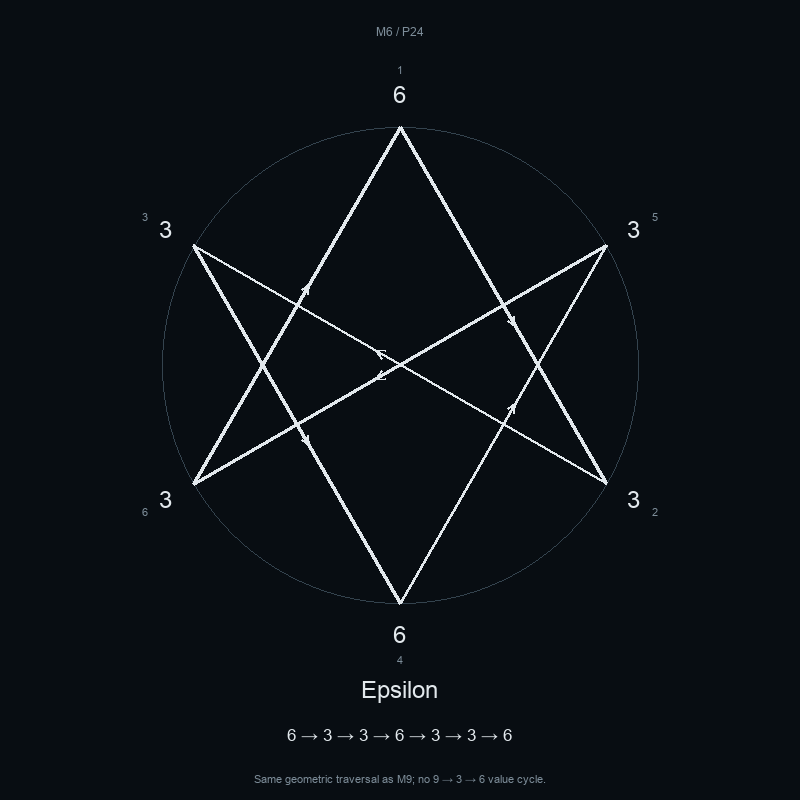
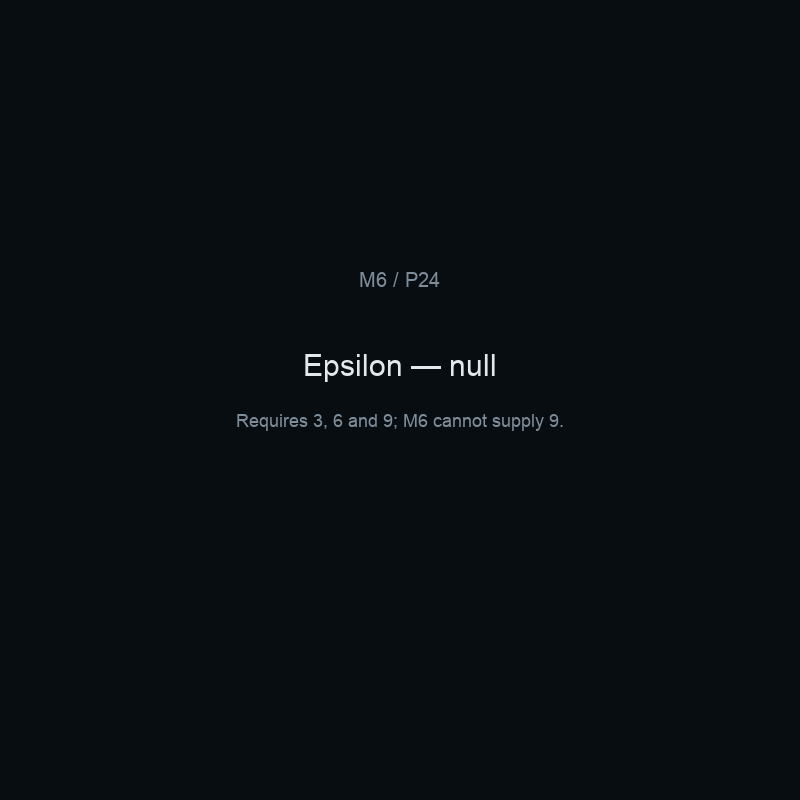
Mark M6 Epsilon null and remove its traversal from diagrams

diff --git a/Informatics/research.js b/Informatics/research.js
@@ -1,18 +1,17 @@
 'use strict';
-(()=>{const $=s=>document.querySelector(s);let request=0;async function load(){const token=++request;try{const isM6=$('#research-record').value==='fibonacci-m6-p24';const file=isM6?'m6p24.json?v=1':'m9p24.json?v=3';const response=await fetch(file);if(!response.ok)throw Error('Research record unavailable');const d=await response.json();if(token!==request)return;document.querySelector('nav').replaceChildren();document.querySelector('h1').textContent='M'+d.modulus+' / P'+d.pisano_period;document.querySelector('footer span').textContent='Symbolic geometry · M'+d.modulus+' / P'+d.pisano_period;$('#json-download').href=file;
+(()=>{const $=s=>document.querySelector(s);let request=0;async function load(){const token=++request;try{const isM6=$('#research-record').value==='fibonacci-m6-p24';const file=isM6?'m6p24.json?v=2':'m9p24.json?v=3';const response=await fetch(file);if(!response.ok)throw Error('Research record unavailable');const d=await response.json();if(token!==request)return;document.querySelector('nav').replaceChildren();document.querySelector('h1').textContent='M'+d.modulus+' / P'+d.pisano_period;document.querySelector('footer span').textContent='Symbolic geometry · M'+d.modulus+' / P'+d.pisano_period;$('#json-download').href=file;
 const descriptions=[
  ['All 24 Fibonacci residues, placed clockwise around a circle.',d.alpha.display_values.join(' · '),'Clock position 24 starts at north, followed clockwise by 1–23. Zero is displayed as 9.','F(n+2) = F(n+1) + F(n), reduced modulo 9. The state (0, 1) first returns after 24 steps.'],
  ['The embedded doubling cycle, drawn on its own nine-position circle.',d.beta.display_cycle.concat(d.beta.display_cycle[0]).join(' → '),'Starts at 4. Recognised cyclic pattern: 1 → 2 → 4 → 8 → 7 → 5.','Sums between Gamma nodes: '+d.beta.interval_sums.join(', ')+'. Reduced modulo 9: '+d.beta.interval_residues.join(', ')+'. The first interval runs from clock position 24 to 4: 1 + 1 + 2 = 4. The original start is preserved; rotation is recorded separately.'],
  ['Six nodal positions form two intersecting equilateral triangles.',d.gamma.clockwise_values.join(' · '),'These values are in clockwise order, starting at north.','Clock positions: '+d.gamma.clock_positions.join(', ')+'. Each triangle advances eight positions, or 120°, between vertices.'],
- ['A continuous unicursal hexagram through the six Gamma nodes.',d.epsilon.traversal_values.join(' → '),'Arrows indicate direction; small numbers indicate visit order.','Clock position route: '+d.epsilon.clock_positions.join(' → ')+'. This is a proposed geometric path. Quantum annealing and physical interpretation have not yet been assessed.'],
+ ['A continuous unicursal hexagram through the six Gamma nodes.',d.epsilon?.traversal_values.join(' → ') || 'Null','Arrows indicate direction; small numbers indicate visit order.','Clock position route: '+d.epsilon?.clock_positions.join(' → ') || ''+'. This is a proposed geometric path. Quantum annealing and physical interpretation have not yet been assessed.'],
  ['All five geometric layers share one frame.','Alpha · Beta · Gamma · Epsilon','Alpha uses 24 positions; Beta uses nine. The green hexagon touches the circle.','The overlay combines the circle, triangles, unicursal route, outer hexagon and doubling chevron. Shared placement is a drawing convention; it does not establish biological significance.']];
 if(isM6){
 descriptions[0]=['24 native Fibonacci residues on the period circle.',d.alpha.display_values.join(' · '),'Clock position 24 is north. Zero is displayed as 6.','Fibonacci recurrence modulo 6; the state (0, 1) first returns after 24 steps.'];
 descriptions[1]=['A two-step doubling cycle on a six-position circle.',d.beta.display_cycle.join(' → '),'Original start: 4. Minimal cycle: 4 → 2. Repeated edges overlap.','Interior sums: '+d.beta.interval_sums.join(', ')+'. Modulo 6: 4, 2, 4, 2, 4, 2. Each next value doubles modulo 6. The six-value M9 cycle 1, 2, 4, 8, 7, 5 is absent.'];
 descriptions[2]=['The same six nodal positions as M9 form two equilateral triangles.',d.gamma.clockwise_values.join(' · '),'Native residues are 0 and 3; zero is displayed as 6.','Clock positions: 24, 4, 8, 12, 16, 20. Triangles advance eight positions (120°).'];
-descriptions[3]=['The same unicursal geometry as M9, with different values.',d.epsilon.traversal_values.join(' → '),'The geometric path exists; the 9 → 3 → 6 value cycle does not.','Clock route: '+d.epsilon.clock_positions.join(' → ')+'. Physical motion and annealing remain unassessed.'];
-descriptions[4]=['M6 sequences and nodal geometry in one frame.','Alpha · Beta · Gamma · Epsilon','Alpha uses 24 positions; Beta uses six.','The native Beta cycle forms one repeatedly traversed chord, not the M9 chevron. Geometry alone does not establish biological significance.'];}
-const colors=['#5ca8ff','#ffea42','#ff84c5','#fff','#62d998'];
+descriptions[4]=['M6 sequences and nodal geometry in one frame.','Alpha · Beta · Gamma','Alpha uses 24 positions; Beta uses six. Epsilon is null: M6 cannot supply 9.','The native Beta cycle forms one repeatedly traversed chord, not the M9 chevron. Geometry alone does not establish biological significance.'];descriptions.splice(3,1);}
+const colors=isM6?['#5ca8ff','#ffea42','#ff84c5','#62d998']:['#5ca8ff','#ffea42','#ff84c5','#fff','#62d998'];document.querySelector('.intro > p').textContent=isM6?'One structure. Four perspectives.':'One structure. Five perspectives.';
 function select(i){const v=d.views[i],x=descriptions[i];history.replaceState(null,'','#'+v.id);document.querySelectorAll('[role=tab]').forEach((b,j)=>{b.setAttribute('aria-selected',String(i===j));b.tabIndex=i===j?0:-1});$('#geometry-panel').setAttribute('aria-labelledby','view-'+i);$('#diagram').src=v.svg;$('#diagram').alt=v.name+': '+x[0];$('#view-name').textContent=v.name;$('#description').textContent=x[0];$('#sequence').textContent=x[1];$('#convention').textContent=x[2];$('#calculation').textContent=x[3];$('#svg-download').href=v.svg;$('#png-download').href=v.png;document.querySelector('details').open=false;}
-d.views.forEach((v,i)=>{const b=document.createElement('button');b.id='view-'+i;b.role='tab';b.setAttribute('aria-controls','geometry-panel');b.style.setProperty('--color',colors[i]);b.textContent=v.name;b.onclick=()=>select(i);b.onkeydown=e=>{if(['ArrowLeft','ArrowRight','Home','End'].includes(e.key)){e.preventDefault();const j=e.key==='Home'?0:e.key==='End'?4:(i+(e.key==='ArrowRight'?1:4))%5;select(j);document.querySelector('#view-'+j).focus()}};document.querySelector('nav').append(b)});const fromHash=()=>{const i=d.views.findIndex(v=>v.id===location.hash.slice(1));select(i<0?0:i)};fromHash();window.onhashchange=fromHash;
+d.views.forEach((v,i)=>{const b=document.createElement('button');b.id='view-'+i;b.role='tab';b.setAttribute('aria-controls','geometry-panel');b.style.setProperty('--color',colors[i]);b.textContent=v.name;b.onclick=()=>select(i);b.onkeydown=e=>{if(['ArrowLeft','ArrowRight','Home','End'].includes(e.key)){e.preventDefault();const j=e.key==='Home'?0:e.key==='End'?d.views.length-1:(i+(e.key==='ArrowRight'?1:d.views.length-1))%d.views.length;select(j);document.querySelector('#view-'+j).focus()}};document.querySelector('nav').append(b)});const fromHash=()=>{const i=d.views.findIndex(v=>v.id===location.hash.slice(1));select(i<0?0:i)};fromHash();window.onhashchange=fromHash;
 }catch(e){$('#description').textContent='The research record could not be loaded. Please reload the page.';console.error(e)}}$('#research-record').onchange=load;load();})();

diff --git a/Informatics/research.html b/Informatics/research.html
@@ -1,1 +1,1 @@
-<!doctype html><html lang="en"><head><meta charset="utf-8"><meta name="viewport" content="width=device-width,initial-scale=1"><meta name="robots" content="noindex,nofollow"><script>if(window.top===window.self){location.replace("./?atlas=1"+location.hash)}else{document.documentElement.classList.add("embedded")}</script><title>Fibonacci M9P24 — Universal Informatics</title><link rel="icon" href="/vogue/iam/favicon.png"><link rel="stylesheet" href="research.css?v=3"></head><body><header><a class="brand" href="./">UNIVERSAL <img src="/vogue/iam/favicon.png" alt="" width="22" height="22"> INFORMATICS</a><a class="home-link" href="./">← Informatics home</a></header><main><div class="record-picker"><label for="research-record">Research record</label><select id="research-record" aria-label="Modulus and Pisano period"><option value="fibonacci-m9-p24">Fibonacci · M9 / P24</option><option value="fibonacci-m6-p24">Fibonacci · M6 / P24</option></select></div><div class="intro"><div><p class="eyebrow">FIBONACCI SEQUENCE</p><h1>M9 <span>/</span> P24</h1></div><p>One structure. Five perspectives.</p></div><nav aria-label="Geometry views" role="tablist"></nav><div class="workspace"><section class="figure" role="tabpanel" id="geometry-panel" tabindex="0"><img id="diagram" alt=""></section><aside><p class="eyebrow">SELECTED VIEW</p><h2 id="view-name"></h2><p id="description"></p><p class="eyebrow detail-label">SEQUENCE</p><p id="sequence" class="sequence"></p><p id="convention"></p><details><summary>Inspect the calculation</summary><p id="calculation"></p></details><div class="downloads"><a id="svg-download" download>SVG ↗</a><a id="png-download" download>PNG ↗</a><a id="json-download" href="m9p24.json?v=3" download>JSON ↗</a></div><div class="research-status"><p class="eyebrow">OXTR RESEARCH</p><p>Biological significance<br><span>Not yet assessed</span></p></div></aside></div></main><footer><span>Symbolic geometry · M9 / P24</span><a href="./">← Informatics home</a></footer><script src="research.js?v=7"></script></body></html>
+<!doctype html><html lang="en"><head><meta charset="utf-8"><meta name="viewport" content="width=device-width,initial-scale=1"><meta name="robots" content="noindex,nofollow"><script>if(window.top===window.self){location.replace("./?atlas=1"+location.hash)}else{document.documentElement.classList.add("embedded")}</script><title>Fibonacci M9P24 — Universal Informatics</title><link rel="icon" href="/vogue/iam/favicon.png"><link rel="stylesheet" href="research.css?v=3"></head><body><header><a class="brand" href="./">UNIVERSAL <img src="/vogue/iam/favicon.png" alt="" width="22" height="22"> INFORMATICS</a><a class="home-link" href="./">← Informatics home</a></header><main><div class="record-picker"><label for="research-record">Research record</label><select id="research-record" aria-label="Modulus and Pisano period"><option value="fibonacci-m9-p24">Fibonacci · M9 / P24</option><option value="fibonacci-m6-p24">Fibonacci · M6 / P24</option></select></div><div class="intro"><div><p class="eyebrow">FIBONACCI SEQUENCE</p><h1>M9 <span>/</span> P24</h1></div><p>One structure. Five perspectives.</p></div><nav aria-label="Geometry views" role="tablist"></nav><div class="workspace"><section class="figure" role="tabpanel" id="geometry-panel" tabindex="0"><img id="diagram" alt=""></section><aside><p class="eyebrow">SELECTED VIEW</p><h2 id="view-name"></h2><p id="description"></p><p class="eyebrow detail-label">SEQUENCE</p><p id="sequence" class="sequence"></p><p id="convention"></p><details><summary>Inspect the calculation</summary><p id="calculation"></p></details><div class="downloads"><a id="svg-download" download>SVG ↗</a><a id="png-download" download>PNG ↗</a><a id="json-download" href="m9p24.json?v=3" download>JSON ↗</a></div><div class="research-status"><p class="eyebrow">OXTR RESEARCH</p><p>Biological significance<br><span>Not yet assessed</span></p></div></aside></div></main><footer><span>Symbolic geometry · M9 / P24</span><a href="./">← Informatics home</a></footer><script src="research.js?v=8"></script></body></html>

diff --git a/research/informatics/build_m6.py b/research/informatics/build_m6.py
@@ -45,7 +45,7 @@ nodes=[i for i,v in enumerate(values) if v%3==0]
 sums=[sum(values[j%n] for j in range(lo+1,hi)) for lo,hi in zip(nodes,nodes[1:]+[n])]
 beta=[v%6 for v in sums]
 triangles=[[0,8,16,0],[4,12,20,4]]
-path=[0,8,20,12,4,16,0]
+assert not {3,6,9}.issubset(display) # Epsilon requires all three values; M1–M8 are ineligible.
 assert n==24 and nodes==[0,4,8,12,16,20]
 assert sums==[4,8,10,14,10,8] and beta==[4,2,4,2,4,2]
 assert all((2*beta[i])%6==beta[(i+1)%6] for i in range(6))
@@ -60,26 +60,20 @@ def draw_gamma(g,labels=True):
  for t in triangles:g.line([pt(i,n) for i in t],PINK,2)
  if labels:
   for i in nodes:g.circle(pt(i,n),5,PINK,fill=PINK);g.text(display[i],pt(i,n,270),24)
-def draw_epsilon(g,labels=True):
- points=[pt(i,n) for i in path];g.line(points,FG,3)
- for a,b in zip(points,points[1:]):g.arrow(a,b,FG)
- if labels:
-  for step,i in enumerate(path[:-1],1):g.text(display[i],pt(i,n,270),24);g.text(step,pt(i,n,295),11,MUTED)
 def draw_beta(g,labels=True):
  points=[pt(v,6) for v in beta+[beta[0]]];g.line(points,YELLOW,3)
  if labels:
   for i in range(6):g.text(i or 6,pt(i,6,270),24,YELLOW if i in beta else MUTED)
   g.text('start 4',pt(4,6,310),12,YELLOW)
   g.text('Repeated traversal: 4 ↔ 2',(400,365),18,YELLOW)
-views=[('alpha','Alpha','24 native Fibonacci residues','Clock position 24 is north; zero is displayed as 6.'),('beta','Beta','4 → 2 → 4 → 2 → 4 → 2','Two-step doubling cycle modulo 6; repeated edges overlap.'),('gamma','Gamma','6 · 3 · 3 · 6 · 3 · 3','Same nodal positions as M9; different native values.'),('epsilon','Epsilon','6 → 3 → 3 → 6 → 3 → 3 → 6','Same geometric traversal as M9; no 9 → 3 → 6 value cycle.'),('fibonacci-m6p24','Fibonacci M6P24','Alpha · Beta · Gamma · Epsilon','Alpha uses 24 positions; Beta uses six positions.')]
+views=[('alpha','Alpha','24 native Fibonacci residues','Clock position 24 is north; zero is displayed as 6.'),('beta','Beta','4 → 2 → 4 → 2 → 4 → 2','Two-step doubling cycle modulo 6; repeated edges overlap.'),('gamma','Gamma','6 · 3 · 3 · 6 · 3 · 3','Same nodal positions as M9; different native values.'),('fibonacci-m6p24','Fibonacci M6P24','Alpha · Beta · Gamma','Alpha uses 24 positions; Beta uses six positions.')]
 for key,title,seq,note in views:
  g=Drawing(title,note);g.circle((400,365),238,'#34434e')
  if key=='alpha':draw_alpha(g)
  elif key=='beta':draw_beta(g)
  elif key=='gamma':draw_gamma(g)
- elif key=='epsilon':draw_epsilon(g)
  else:
-  draw_gamma(g,False);g.line([pt(i,6) for i in range(6)],GREEN,2,True);draw_alpha(g);draw_epsilon(g,False);draw_beta(g,False)
+  draw_gamma(g,False);g.line([pt(i,6) for i in range(6)],GREEN,2,True);draw_alpha(g);draw_beta(g,False)
  g.text('M6 / P24',(400,32),12,MUTED);g.text(title,(400,690),24);g.text(seq,(400,735),17);g.text(note,(400,779),11,MUTED);g.save(key)
 d={
  'schema_version':'1.1.0','id':'fibonacci-m6-p24','name':'Fibonacci M6P24','modulus':6,'pisano_period':n,
@@ -87,9 +81,13 @@ d={
  'alpha':{'residues':values,'display_values':display},
  'beta':{'interval_sums':sums,'interval_residues':beta,'display_cycle':beta,'recognised_doubling_cycle':[2,4],'rotation_to_recognised':1,'start_value':4,'start_interval_clock_positions':[24,4],'start_interval_values':[1,1,2],'endpoint_rule':'Exclude Gamma nodes; include wraparound interval.','circle_positions':6,'cycle_length':2,'m9_doubling_cycle_present':False},
  'gamma':{'alpha_indices':nodes,'clock_positions':[i or 24 for i in nodes],'clockwise_values':[display[i] for i in nodes],'triangle_paths':triangles},
- 'epsilon':{'alpha_indices':path,'clock_positions':[i or 24 for i in path],'traversal_values':[display[i] for i in path],'status':'Same six-node geometric route as M9; different value sequence. Physical interpretation not assessed.'},
- 'views':[{'id':key,'name':title,'description':note,'svg':f'views/m6/{key}.svg?v=1','png':f'views/m6/{key}.png?v=1'} for key,title,seq,note in views],
+ 'epsilon':None,
+ 'epsilon_status':'Null: requires sequential mapping of all three values 3, 6 and 9. M1–M8 cannot supply 9.',
+ 'views':[{'id':key,'name':title,'description':note,'svg':f'views/m6/{key}.svg?v=2','png':f'views/m6/{key}.png?v=2'} for key,title,seq,note in views],
  'research':{'focus':'OXTR gene expression','biological_significance_status':'Not yet assessed','statistical_significance_status':'Not yet assessed','quantum_annealing_status':'Not yet performed'},
- 'verification':{'python':'Exact state recurrence, node positions, triangle spacing and native doubling checked.','wolfram':'Independent kernel confirmed period24, residues, nodes, interval sums, Beta and Epsilon on 2026-10-16.'}}
+ 'verification':{'python':'Exact state recurrence, node positions, triangle spacing and native doubling checked.','wolfram':'Independent kernel confirmed period24, residues, nodes, interval sums, Beta on 2026-10-16.'}}
 (ROOT/'Informatics/m6p24.json').write_text(json.dumps(d,indent=2)+'\n')
-print('M6/P24 verified; five SVG and PNG views generated.')
+print('M6/P24 verified; four SVG and PNG views generated.')
+
+# Replace legacy Epsilon URLs with an explicit null notice; no traversal remains.
+g=Drawing('Epsilon — null','M6 cannot supply 9.');g.text('M6 / P24',(400,280),20,MUTED);g.text('Epsilon — null',(400,365),30);g.text('Requires 3, 6 and 9; M6 cannot supply 9.',(400,420),18,MUTED);g.save('epsilon')

diff --git a/research/informatics/epsilon-rule.md b/research/informatics/epsilon-rule.md
@@ -1,0 +1,5 @@
+# Epsilon eligibility
+Epsilon requires a sequential mapping containing all three nodal values 3, 6 and 9. This is the project definition, not a claim that other geometric or Eulerian paths cannot exist.
+M1 through M8: Epsilon is null because 9 is unavailable under native-modulus labels (zero may be displayed as the modulus).
+For M9 and above, eligibility is necessary but not sufficient: verify values and traversal before assigning Epsilon.
+Do not draw an Epsilon path in a combined view when Epsilon is null.
